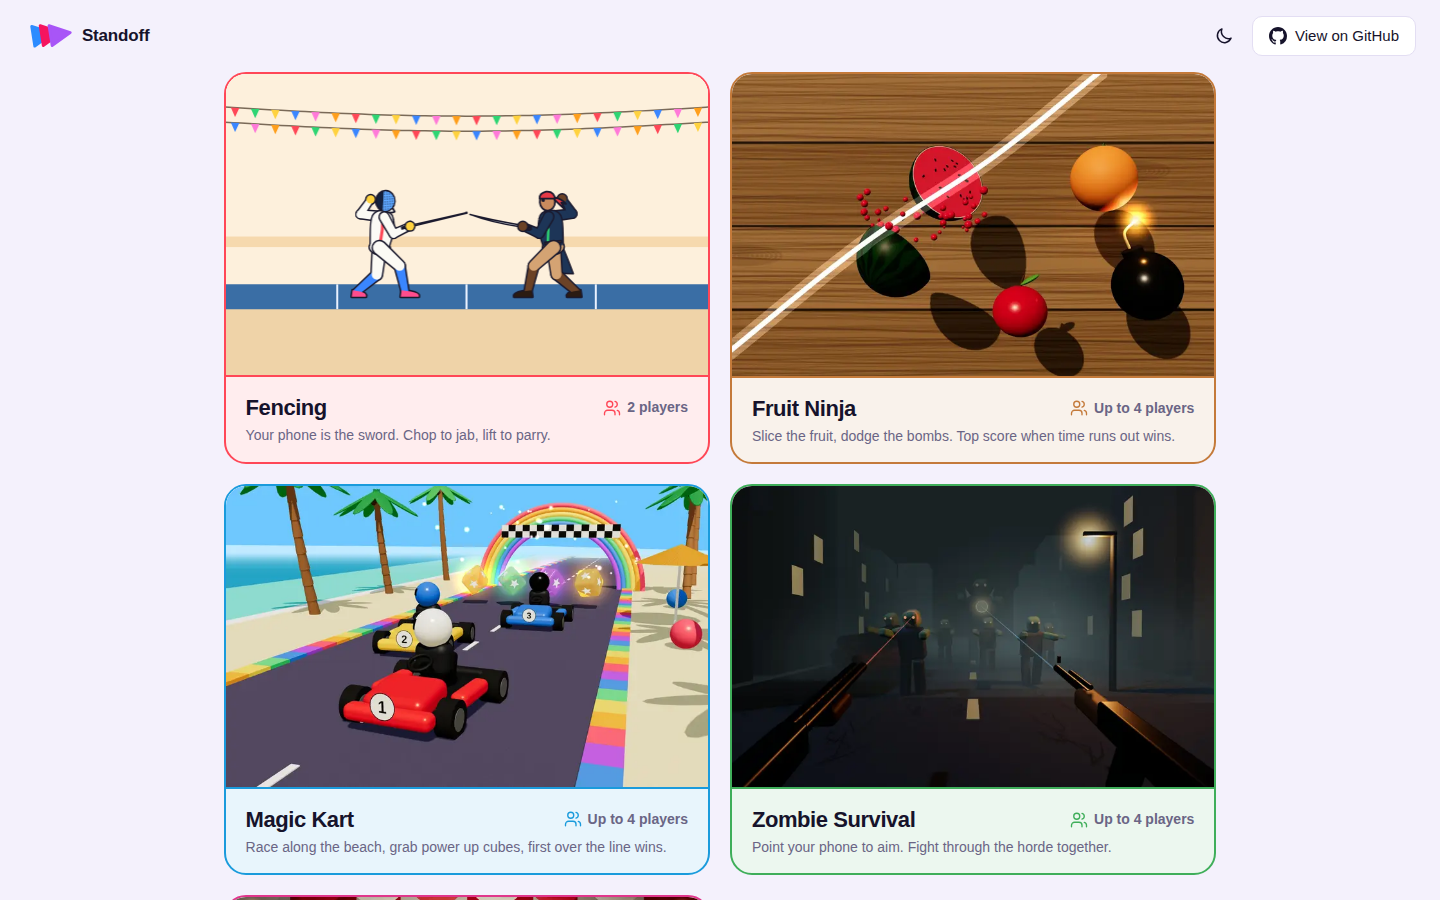
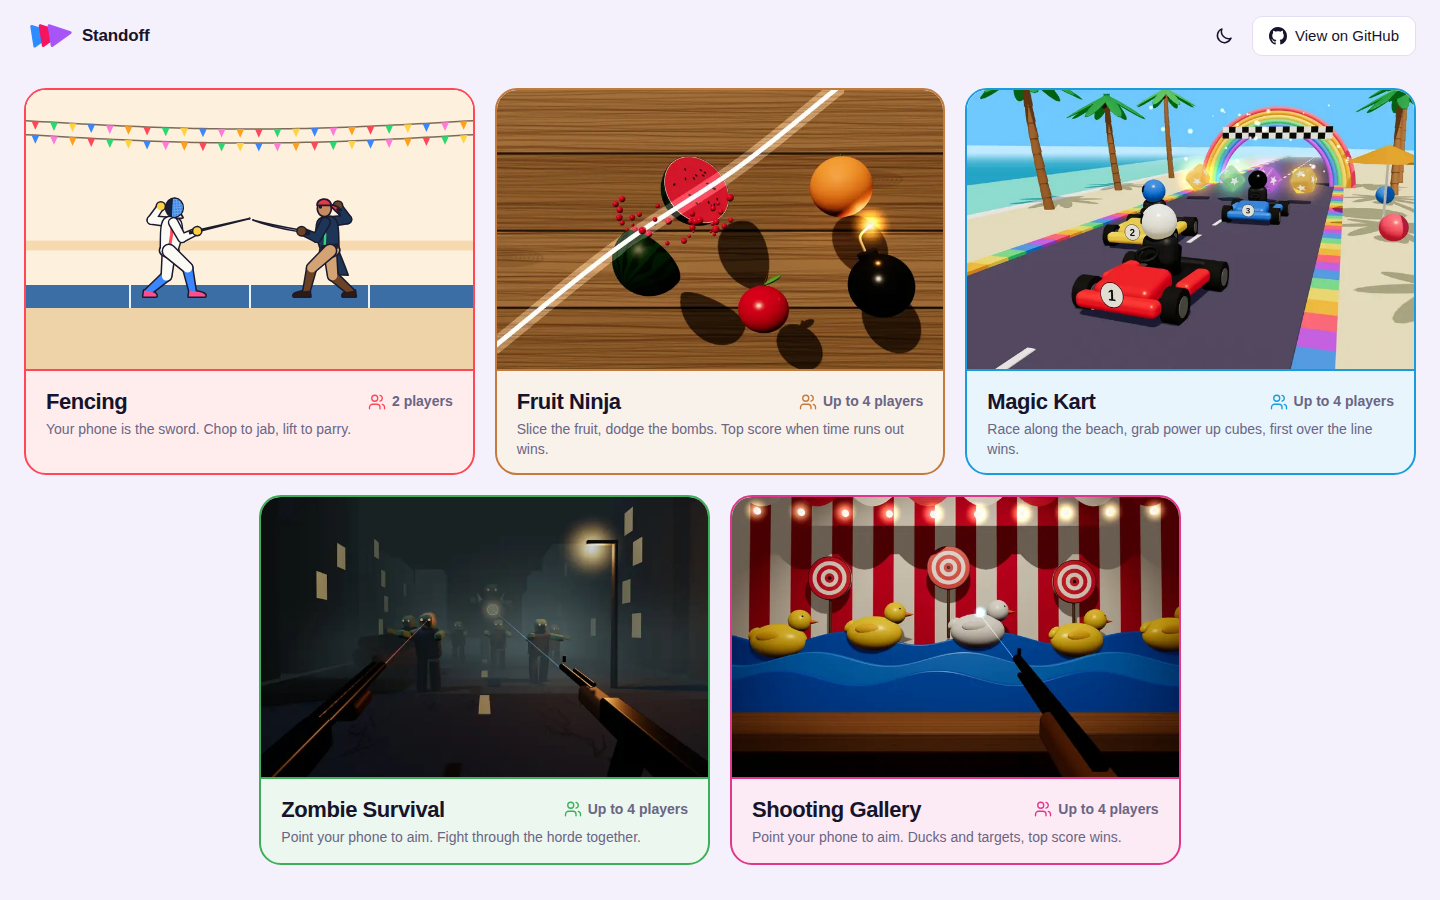
Lay the home cards out three to a row
Three cards to a row with the last row centred, so all five games fit on one screen, and a gap between the bar and the first row.

Claude-Session: https://claude.ai/code/session_01D1DBDL5jLRnzHEGNERorxo

diff --git a/src/styles/home.css b/src/styles/home.css
@@ -44,22 +44,29 @@
 }
 
 /*
-  Covers are 16 by 10 and are never cropped. So the columns are only as
-  wide as lets two rows of cards, cover plus text, fit under the bar.
+  Three cards to a row, the last row centred. Covers are 16 by 10 and are
+  never cropped, so the cards are only as wide as lets two rows of cover
+  plus text fit under the bar.
 */
 .home__grid {
   --bar-h: 76px;
+  --top: 16px;
   --gap: 20px;
   --body: 86px;
-  --row: calc((100dvh - var(--bar-h) - var(--gap) - 24px) / 2);
-  display: grid;
-  grid-template-columns: repeat(2, minmax(0, 1fr));
+  --row: calc((100dvh - var(--bar-h) - var(--top) - var(--gap) - 24px) / 2);
+  --card: min(calc((100% - var(--gap) * 2) / 3), calc((var(--row) - var(--body)) * 1.6));
+  display: flex;
+  flex-wrap: wrap;
+  justify-content: center;
+  align-content: flex-start;
   gap: var(--gap);
   width: 100%;
-  max-width: calc((var(--row) - var(--body)) * 1.6 * 2 + var(--gap) + 48px);
-  min-width: 0;
   margin: 0 auto;
-  padding: 0 24px 24px;
+  padding: var(--top) 24px 24px;
+}
+
+.home__grid > * {
+  flex: 0 0 var(--card);
 }
 
 /* Each card is tinted with its game's colour, set inline as --game. The whole card is the button. */
@@ -165,8 +172,10 @@
   }
 
   .home__grid {
-    grid-template-columns: minmax(0, 1fr);
-    max-width: none;
-    padding: 0 16px 16px;
+    padding: 8px 16px 16px;
+  }
+
+  .home__grid > * {
+    flex-basis: 100%;
   }
 }

diff --git a/README.md b/README.md
@@ -10,7 +10,7 @@ Play it at [standoff-five.vercel.app](https://standoff-five.vercel.app).
 
 ## Screenshots
 
-The home screen. Every game is a big card, two to a row, each tinted in its own colour. Games still being built show a rendered preview of their look.
+The home screen. Every game is a card, three to a row with the last row centred, each tinted in its own colour. Games still being built show a rendered preview of their look.
 
 <img src="docs/screenshots/home-light.png" alt="The home screen in light mode, with Fencing, Fruit Ninja, Magic Kart and Zombie Survival cards" width="100%" />
 
